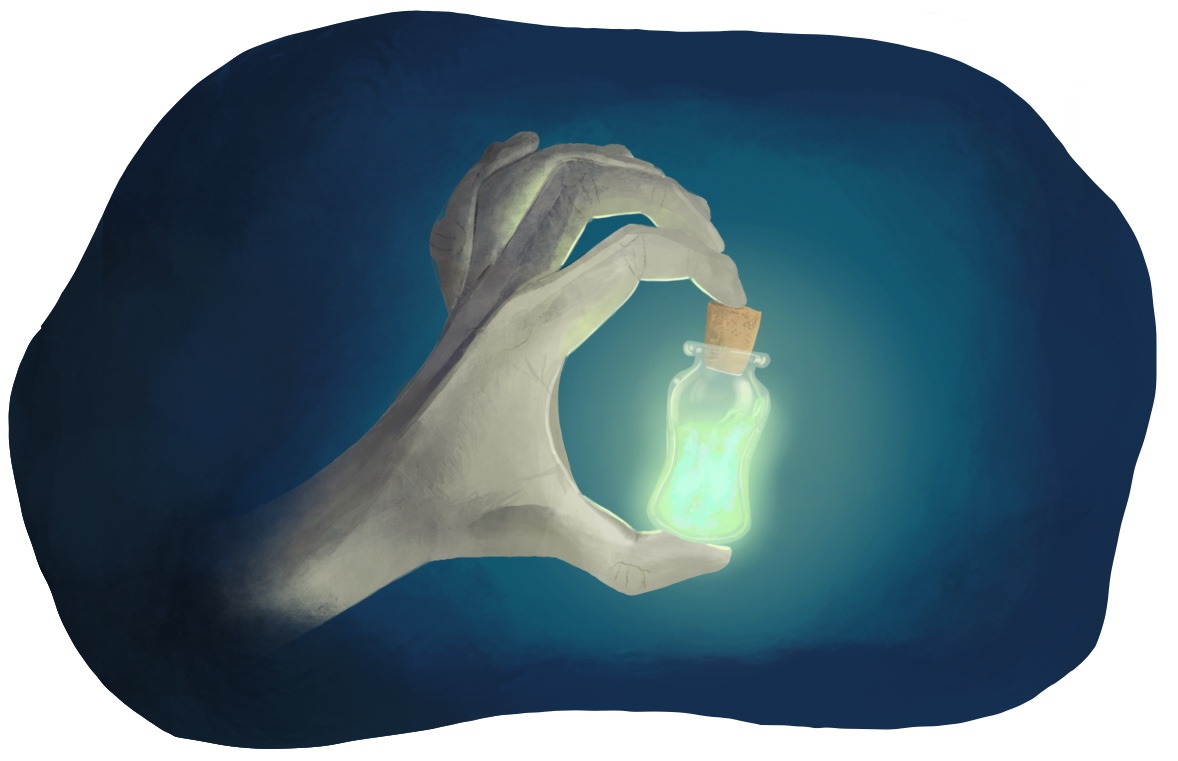
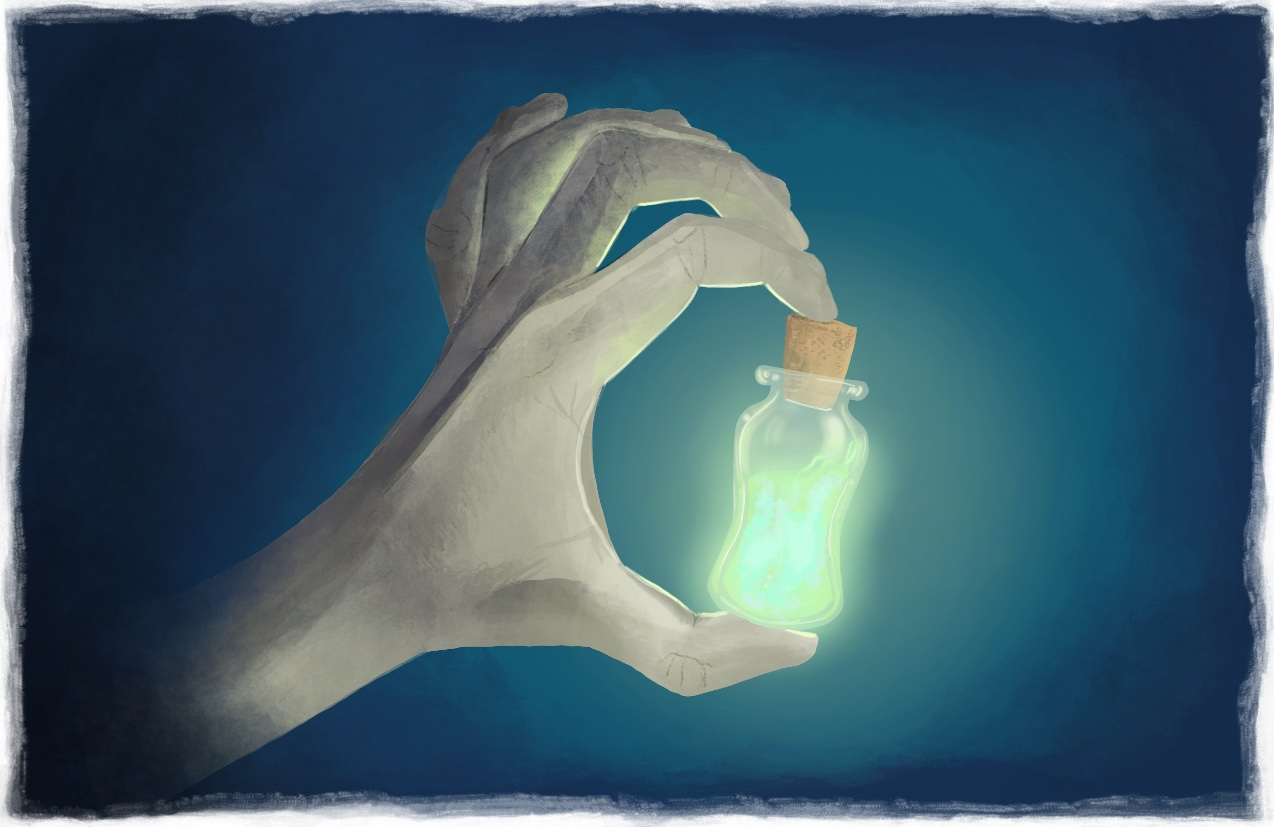
Uses feathered illos in narrative

diff --git a/docs/00_narrative.html b/docs/00_narrative.html
@@ -74,8 +74,8 @@
           <img src="images/00_narrative/cover.jpg">
         </div>
         <div class = "narrative-text"> 
-          <p>Teacup giraffes were first discovered by the Swedish naturalist and priest Olof Torén, an apostle of Carl Linnaeus, during his travels on the Swedish East India Company ship <i>Hoppet</i>. One suffocating evening in July 1748, shortly after Hoppet sailed east of Madagascar, captain Erik Moreen was attacked by a headache so vicious it made him seasick for the first time since the beginning of his nautical career. Desperate to ease the pain he called on the ship surgeon, a crooked man who spent most of his time investigating fungi in the deepest corners of the ship’s bilge where the air tasted like forgotten bread.</p>
-          <p> <img class = "narrative-illo" align = "left" src="images/00_narrative/Vial.jpg"> The surgeon brought a small bottle containing a beverage brewed of equal parts fermented goat milk and a distillate of mushrooms which, when dissolved, produced such a colorful luminance that the use of protective goggles was necessary to prevent achromatopsia. Ignoring the surgeon’s recommendation to limit the dose to a few drops of the brew, the captain emptied the bottle in one gulp and for a few moments lost all senses while the hair on the back of his head spun into permanent curls.</p>
+          <p>Teacup giraffes were first discovered by the Swedish naturalist and priest Olof Torén, an apostle of Carl Linnaeus, during his travels on the Swedish East India Company ship <i>Hoppet</i>. One suffocating evening in July 1748, shortly after <i>Hoppet</i> sailed east of Madagascar, captain Erik Moreen was attacked by a headache so vicious it made him seasick for the first time since the beginning of his nautical career. Desperate to ease the pain he called on the ship surgeon, a crooked man who spent most of his time investigating fungi in the deepest corners of the ship’s bilge where the air tasted like forgotten bread.</p>
+          <p> <img class = "narrative-illo-small" align = "left" src="images/00_narrative/Vial.jpg"> The surgeon brought a small bottle containing a beverage brewed of equal parts fermented goat milk and a distillate of mushrooms which, when dissolved, produced such a colorful luminance that the use of protective goggles was necessary to prevent achromatopsia. Ignoring the surgeon’s recommendation to limit the dose to a few drops of the brew, the captain emptied the bottle in one gulp and for a few moments lost all senses while the hair on the back of his head spun into permanent curls.</p>
         </div>
       </div>
 
@@ -89,13 +89,13 @@
       </div>
       
       <div id = slide6  class="slide-content">
-        <div class = "narrative-text"> 
-          <p>In line with the often undemocratic nature of human experiences, Olof Torén would encounter teacup giraffes twice over the course of a few years, while it would take centuries after they were first discovered before anybody else did. The second time Olof Torén visited the two small islands where teacup giraffes still live today, it was during his second and last intercontinental journey at sea, this time on the Swedish East India Company ship <i>Götha Leijon</i>. <img class = "narrative-illo" align = "left" src="images/00_narrative/Ships.jpg"> In 1750 (check year) he found himself back in the cerulean waters northeast of Madagascar. Again, it was an event characterized by pain that would bring the naturalist and ship priest to the teacup giraffe islands, but pain of the soul rather than the body.</p>
+        <div class ="narrative-text"> 
+          <p>In line with the often undemocratic nature of human experiences, Olof Torén would encounter teacup giraffes twice over the course of a few years, while it would take centuries after they were first discovered before anybody else did. The second time Olof Torén visited the two small islands where teacup giraffes still live today, it was during his second and last intercontinental journey at sea, this time on the Swedish East India Company ship <i>Götha Leijon</i>. <img class="narrative-illo-small" align = "left" src="images/00_narrative/Ships2.jpg"> In 1750 (check year) he found himself back in the cerulean waters northeast of Madagascar. Again, it was an event characterized by pain that would bring the naturalist and ship priest to the teacup giraffe islands, but pain of the soul rather than the body.</p>
            </div>
       </div>
           
       <div id = slide7  class="slide-content">
-        <div class = "narrative-text"> 
+        <div class="narrative-text"> 
           <p>In the evenings, Olof Torén and supercargo Anders Gotheen, a man who would not hesitate to let people know his personal values aligned perfectly with the new ideals of the intellectual revolution today known as the <i>Enlightenment</i>, enjoyed sitting down for a game of backgammon on the main deck. Or rather, Olof Torén enjoyed the game while Anders Gotheen, as he liked to say, enjoyed engaging in dialectic discourse while playing a game only trivially distracting since winning after all was mostly a question of luck. Olof Torén had noticed that conversations with Anders Gotheen often made him worried about things he had not previously contemplated and was therefore less amused by the dialectic aspect of their game nights. </p>
           <p>This particular evening it seemed Anders Gotheen would definitely lose. He watched Olof Torén bear off three of his white checkers and as he collected the dice supercargo Gotheen turned to the naturalist and ship priest.</p>
           <p class="dialogue">– For the intellectually brave and the intellectually honest, he said, no comfort can be found in the concept of infinity. Everything typical of human life, he continued, depends on the idea of a finite world, and therefore a free human mind can never truly be consolidated by the appreciation of endlessness. He paused and drank some wine from a metal cup.</p>
@@ -108,7 +108,7 @@
         <div id = slide8  class="slide-content">
           <div class = "narrative-text"> 
             <p>Olof Torén treaded water all night, motivated by his new found fear of death. When the sun rose he for a moment forgot about the thoughts that had been plaguing him during those long hours in the dark water, because the early morning light was filtered through the foliage of a thousand palm trees, draping the world in a calming emerald luster. He could now see he was only a few yards away from the sandbank where <i>Hoppet</i> had stranded a few years earlier. He swam to the island closest to him and passed out on the beach, exhausted both physically and mentally.</p>
-            <p>When Olof Torén woke up the sun was already setting. As he slowly opened his eyes he saw a group of teacup giraffes walking towards him on the beach, and briefly thought they had come to welcome him back to the islands. But the small caravan walked past him and continued towards a large flat stone projecting out of the sand not far from where he was laying. <img align = "left" class= "narrative-illo" src="images/00_narrative/ShadowPlay.jpg"> In the light of dusk, minutes before the sun would disappear into the sea, everything on the beach seemed to cast extraordinarily long shadows and from where Olof Torén was positioned the stone looked enormous. The shape made him think of runestones, rocks Vikings would raise and decorate with runic inscriptions, but the size more resembled the moai stone statues of Easter island. The teacup giraffes took turns standing in front of the stone observing a large giraffe shaped silhouette appear on the granite surface ahead. They seemed infatuated by watching their shadow twin move as they moved, grasping for palm tree leaves non-shadow teacup giraffes would never reach, and making low pitched vocal sounds reminding Olof Torén of larger animals. It was as if these teacup giraffes knew about their unusually small stature and used the evening light phenomenon to pretend they were tall, like their full-size giraffe relatives on the African mainland.</p>
+            <p>When Olof Torén woke up the sun was already setting. As he slowly opened his eyes he saw a group of teacup giraffes walking towards him on the beach, and briefly thought they had come to welcome him back to the islands. But the small caravan walked past him and continued towards a large flat stone projecting out of the sand not far from where he was laying. <img class= "narrative-illo-big" src="images/00_narrative/ShadowPlay.jpg"> In the light of dusk, minutes before the sun would disappear into the sea, everything on the beach seemed to cast extraordinarily long shadows and from where Olof Torén was positioned the stone looked enormous. The shape made him think of runestones, rocks Vikings would raise and decorate with runic inscriptions, but the size more resembled the moai stone statues of Easter island. The teacup giraffes took turns standing in front of the stone observing a large giraffe shaped silhouette appear on the granite surface ahead. They seemed infatuated by watching their shadow twin move as they moved, grasping for palm tree leaves non-shadow teacup giraffes would never reach, and making low pitched vocal sounds reminding Olof Torén of larger animals. It was as if these teacup giraffes knew about their unusually small stature and used the evening light phenomenon to pretend they were tall, like their full-size giraffe relatives on the African mainland.</p>
           </div>
         </div>
       
@@ -117,14 +117,14 @@
             <p>This time around Olof Torén spent two days in the company of teacup giraffes and grew to appreciate their cheerful demeanor, social competence and general friendliness. When not playing with shadows, chasing fireflies or resting in the crisp air next to a waterfall, they foraged the jungle for celery which seemed to be their favorite food. Time passed quickly on the islands  because the teacup giraffes had an almost endless repertoire of delightful behaviors and at times it even appeared they adapted their conduct to what Olof Torén showed appreciation for. </p>
             <p>On the Swedish East India Company ship <i>Götha Leijon</i>, the consensus was that Olof Torén was unlikely to still be alive, but most of the crew were god fearing men and the idea of leaving a priest to drown without a convincing rescue attempt seemed like the type of thing the almighty would never forget. Some of the them had been present for the Erik Moreen debacle a few years earlier, and remembered the location of the islands from this incident.</p>
             <p>Olof Torén saw the ship approach the islands from far away. After two days on the teacup giraffe diet he was famished because the more celery he ate the hungrier he became. Longing for the salted meats that made up a large part of the meals onboard Swedish East India Company ships, he said goodbye to his new four legged friends and waded out in the water to meet the rowboat launched to pick him up. As he climbed onboard he turned around to catch a last glimpse of the teacup giraffes and saw them gather on the beach for another evening shadow play ritual.</p>
-            <p>Back on Götha Leijon, Olof Torén wrote down all the details of teacup giraffes’ lives he could remember. During a game of backgammon with supercargo Anders Gotheen he made an attempt to describe their complex social behaviors, to which Anders Gotheen replied </p>
+            <p>Back on <i>Götha Leijon</i>, Olof Torén wrote down all the details of teacup giraffes’ lives he could remember. During a game of backgammon with supercargo Anders Gotheen he made an attempt to describe their complex social behaviors, to which Anders Gotheen replied </p>
             <p class="dialogue"> – The human mind works in mysterious ways when deprived of energy.</p>
         </div>
       </div>
       
       <div id = slide10  class="slide-content">
         <div class = "narrative-text"> 
-          <p>Olof Torén would in fact have a hard time convincing friends and colleagues, people he met as Götha Leijon sailed to Surat and Canton, as well as Carl Linnaeus, that his experiences on the teacup giraffes islands were real. Maybe the feeling of not being trusted contributed to why his health started to deteriorate after his return to Sweden in 1752. On the 3rd of May 1753, a few months before his death, he wrote a last letter to Linnaeus. On the final page of this letter he drew a picture of two giraffes, one small and one big. They were standing in front of a wall and both shadows stretched far up into the sky. The small giraffe, a female with pointy ears, looked like she was smiling.</p>
+          <p>Olof Torén would in fact have a hard time convincing friends and colleagues, people he met as <i>Götha Leijon</i> sailed to Surat and Canton, as well as Carl Linnaeus, that his experiences on the teacup giraffes islands were real. Maybe the feeling of not being trusted contributed to why his health started to deteriorate after his return to Sweden in 1752. On the 3rd of May 1753, a few months before his death, he wrote a last letter to Linnaeus. On the final page of this letter he drew a picture of two giraffes, one small and one big. They were standing in front of a wall and both shadows stretched far up into the sky. The small giraffe, a female with pointy ears, looked like she was smiling.</p>
           <p>Even today, when there are few true mysteries left in the world and all corners of the globe have been so carefully measured and illuminated that no colorless spots stain the pages of the modern atlas, teacup giraffes remain a relatively well kept secret. These animals were briefly mentioned in 9th edition of Carl Linnaeus’ Systema Naturae and given the Latin name Giraffa minima, but were removed before printing the 10th edition because of doubts about the trustworthiness of Olof Torén’s accounts. No songs have been sung about them, Rudyard Kipling was oblivious to their existence when writing the Jungle Book, schoolchildren have never wondered how many teacup giraffes they could fit in a backpack, surprisingly no attempts have been made to keep them as pets, and they were never made famous by a Twinings advertisement campaign. </p>
           <p>But in December 2018, the Olof Torén foundation in Uppsala decided it was time that teacup giraffes were given a more prominent place in the world of zoology. The foundation set aside money for a stipend and requested applications from “young aspiring scientists devoted to conducting old-school observational field work and interested in spending ten weeks on remote islands in the Indian Ocean studying maybe the least known mammal on the planet”. In the announcement they also wrote “One crucial piece of information missing about teacup giraffes regards their physique, because although it is known that they are small, no reliable records of their exact size can be found anywhere”. And this is true because people falling overboard rarely bring measuring equipment.</p>
           </div>

diff --git a/assets/00_narrative.html b/assets/00_narrative.html
@@ -48,8 +48,8 @@
           <img src="images/00_narrative/cover.jpg">
         </div>
         <div class = "narrative-text"> 
-          <p>Teacup giraffes were first discovered by the Swedish naturalist and priest Olof Torén, an apostle of Carl Linnaeus, during his travels on the Swedish East India Company ship <i>Hoppet</i>. One suffocating evening in July 1748, shortly after Hoppet sailed east of Madagascar, captain Erik Moreen was attacked by a headache so vicious it made him seasick for the first time since the beginning of his nautical career. Desperate to ease the pain he called on the ship surgeon, a crooked man who spent most of his time investigating fungi in the deepest corners of the ship’s bilge where the air tasted like forgotten bread.</p>
-          <p> <img class = "narrative-illo" align = "left" src="images/00_narrative/Vial.jpg"> The surgeon brought a small bottle containing a beverage brewed of equal parts fermented goat milk and a distillate of mushrooms which, when dissolved, produced such a colorful luminance that the use of protective goggles was necessary to prevent achromatopsia. Ignoring the surgeon’s recommendation to limit the dose to a few drops of the brew, the captain emptied the bottle in one gulp and for a few moments lost all senses while the hair on the back of his head spun into permanent curls.</p>
+          <p>Teacup giraffes were first discovered by the Swedish naturalist and priest Olof Torén, an apostle of Carl Linnaeus, during his travels on the Swedish East India Company ship <i>Hoppet</i>. One suffocating evening in July 1748, shortly after <i>Hoppet</i> sailed east of Madagascar, captain Erik Moreen was attacked by a headache so vicious it made him seasick for the first time since the beginning of his nautical career. Desperate to ease the pain he called on the ship surgeon, a crooked man who spent most of his time investigating fungi in the deepest corners of the ship’s bilge where the air tasted like forgotten bread.</p>
+          <p> <img class = "narrative-illo-small" align = "left" src="images/00_narrative/Vial.jpg"> The surgeon brought a small bottle containing a beverage brewed of equal parts fermented goat milk and a distillate of mushrooms which, when dissolved, produced such a colorful luminance that the use of protective goggles was necessary to prevent achromatopsia. Ignoring the surgeon’s recommendation to limit the dose to a few drops of the brew, the captain emptied the bottle in one gulp and for a few moments lost all senses while the hair on the back of his head spun into permanent curls.</p>
         </div>
       </div>
 
@@ -63,13 +63,13 @@
       </div>
       
       <div id = slide6  class="slide-content">
-        <div class = "narrative-text"> 
-          <p>In line with the often undemocratic nature of human experiences, Olof Torén would encounter teacup giraffes twice over the course of a few years, while it would take centuries after they were first discovered before anybody else did. The second time Olof Torén visited the two small islands where teacup giraffes still live today, it was during his second and last intercontinental journey at sea, this time on the Swedish East India Company ship <i>Götha Leijon</i>. <img class = "narrative-illo" align = "left" src="images/00_narrative/Ships.jpg"> In 1750 (check year) he found himself back in the cerulean waters northeast of Madagascar. Again, it was an event characterized by pain that would bring the naturalist and ship priest to the teacup giraffe islands, but pain of the soul rather than the body.</p>
+        <div class ="narrative-text"> 
+          <p>In line with the often undemocratic nature of human experiences, Olof Torén would encounter teacup giraffes twice over the course of a few years, while it would take centuries after they were first discovered before anybody else did. The second time Olof Torén visited the two small islands where teacup giraffes still live today, it was during his second and last intercontinental journey at sea, this time on the Swedish East India Company ship <i>Götha Leijon</i>. <img class="narrative-illo-small" align = "left" src="images/00_narrative/Ships2.jpg"> In 1750 (check year) he found himself back in the cerulean waters northeast of Madagascar. Again, it was an event characterized by pain that would bring the naturalist and ship priest to the teacup giraffe islands, but pain of the soul rather than the body.</p>
            </div>
       </div>
           
       <div id = slide7  class="slide-content">
-        <div class = "narrative-text"> 
+        <div class="narrative-text"> 
           <p>In the evenings, Olof Torén and supercargo Anders Gotheen, a man who would not hesitate to let people know his personal values aligned perfectly with the new ideals of the intellectual revolution today known as the <i>Enlightenment</i>, enjoyed sitting down for a game of backgammon on the main deck. Or rather, Olof Torén enjoyed the game while Anders Gotheen, as he liked to say, enjoyed engaging in dialectic discourse while playing a game only trivially distracting since winning after all was mostly a question of luck. Olof Torén had noticed that conversations with Anders Gotheen often made him worried about things he had not previously contemplated and was therefore less amused by the dialectic aspect of their game nights. </p>
           <p>This particular evening it seemed Anders Gotheen would definitely lose. He watched Olof Torén bear off three of his white checkers and as he collected the dice supercargo Gotheen turned to the naturalist and ship priest.</p>
           <p class="dialogue">– For the intellectually brave and the intellectually honest, he said, no comfort can be found in the concept of infinity. Everything typical of human life, he continued, depends on the idea of a finite world, and therefore a free human mind can never truly be consolidated by the appreciation of endlessness. He paused and drank some wine from a metal cup.</p>
@@ -82,7 +82,7 @@
         <div id = slide8  class="slide-content">
           <div class = "narrative-text"> 
             <p>Olof Torén treaded water all night, motivated by his new found fear of death. When the sun rose he for a moment forgot about the thoughts that had been plaguing him during those long hours in the dark water, because the early morning light was filtered through the foliage of a thousand palm trees, draping the world in a calming emerald luster. He could now see he was only a few yards away from the sandbank where <i>Hoppet</i> had stranded a few years earlier. He swam to the island closest to him and passed out on the beach, exhausted both physically and mentally.</p>
-            <p>When Olof Torén woke up the sun was already setting. As he slowly opened his eyes he saw a group of teacup giraffes walking towards him on the beach, and briefly thought they had come to welcome him back to the islands. But the small caravan walked past him and continued towards a large flat stone projecting out of the sand not far from where he was laying. <img align = "left" class= "narrative-illo" src="images/00_narrative/ShadowPlay.jpg"> In the light of dusk, minutes before the sun would disappear into the sea, everything on the beach seemed to cast extraordinarily long shadows and from where Olof Torén was positioned the stone looked enormous. The shape made him think of runestones, rocks Vikings would raise and decorate with runic inscriptions, but the size more resembled the moai stone statues of Easter island. The teacup giraffes took turns standing in front of the stone observing a large giraffe shaped silhouette appear on the granite surface ahead. They seemed infatuated by watching their shadow twin move as they moved, grasping for palm tree leaves non-shadow teacup giraffes would never reach, and making low pitched vocal sounds reminding Olof Torén of larger animals. It was as if these teacup giraffes knew about their unusually small stature and used the evening light phenomenon to pretend they were tall, like their full-size giraffe relatives on the African mainland.</p>
+            <p>When Olof Torén woke up the sun was already setting. As he slowly opened his eyes he saw a group of teacup giraffes walking towards him on the beach, and briefly thought they had come to welcome him back to the islands. But the small caravan walked past him and continued towards a large flat stone projecting out of the sand not far from where he was laying. <img class= "narrative-illo-big" src="images/00_narrative/ShadowPlay.jpg"> In the light of dusk, minutes before the sun would disappear into the sea, everything on the beach seemed to cast extraordinarily long shadows and from where Olof Torén was positioned the stone looked enormous. The shape made him think of runestones, rocks Vikings would raise and decorate with runic inscriptions, but the size more resembled the moai stone statues of Easter island. The teacup giraffes took turns standing in front of the stone observing a large giraffe shaped silhouette appear on the granite surface ahead. They seemed infatuated by watching their shadow twin move as they moved, grasping for palm tree leaves non-shadow teacup giraffes would never reach, and making low pitched vocal sounds reminding Olof Torén of larger animals. It was as if these teacup giraffes knew about their unusually small stature and used the evening light phenomenon to pretend they were tall, like their full-size giraffe relatives on the African mainland.</p>
           </div>
         </div>
       
@@ -91,14 +91,14 @@
             <p>This time around Olof Torén spent two days in the company of teacup giraffes and grew to appreciate their cheerful demeanor, social competence and general friendliness. When not playing with shadows, chasing fireflies or resting in the crisp air next to a waterfall, they foraged the jungle for celery which seemed to be their favorite food. Time passed quickly on the islands  because the teacup giraffes had an almost endless repertoire of delightful behaviors and at times it even appeared they adapted their conduct to what Olof Torén showed appreciation for. </p>
             <p>On the Swedish East India Company ship <i>Götha Leijon</i>, the consensus was that Olof Torén was unlikely to still be alive, but most of the crew were god fearing men and the idea of leaving a priest to drown without a convincing rescue attempt seemed like the type of thing the almighty would never forget. Some of the them had been present for the Erik Moreen debacle a few years earlier, and remembered the location of the islands from this incident.</p>
             <p>Olof Torén saw the ship approach the islands from far away. After two days on the teacup giraffe diet he was famished because the more celery he ate the hungrier he became. Longing for the salted meats that made up a large part of the meals onboard Swedish East India Company ships, he said goodbye to his new four legged friends and waded out in the water to meet the rowboat launched to pick him up. As he climbed onboard he turned around to catch a last glimpse of the teacup giraffes and saw them gather on the beach for another evening shadow play ritual.</p>
-            <p>Back on Götha Leijon, Olof Torén wrote down all the details of teacup giraffes’ lives he could remember. During a game of backgammon with supercargo Anders Gotheen he made an attempt to describe their complex social behaviors, to which Anders Gotheen replied </p>
+            <p>Back on <i>Götha Leijon</i>, Olof Torén wrote down all the details of teacup giraffes’ lives he could remember. During a game of backgammon with supercargo Anders Gotheen he made an attempt to describe their complex social behaviors, to which Anders Gotheen replied </p>
             <p class="dialogue"> – The human mind works in mysterious ways when deprived of energy.</p>
         </div>
       </div>
       
       <div id = slide10  class="slide-content">
         <div class = "narrative-text"> 
-          <p>Olof Torén would in fact have a hard time convincing friends and colleagues, people he met as Götha Leijon sailed to Surat and Canton, as well as Carl Linnaeus, that his experiences on the teacup giraffes islands were real. Maybe the feeling of not being trusted contributed to why his health started to deteriorate after his return to Sweden in 1752. On the 3rd of May 1753, a few months before his death, he wrote a last letter to Linnaeus. On the final page of this letter he drew a picture of two giraffes, one small and one big. They were standing in front of a wall and both shadows stretched far up into the sky. The small giraffe, a female with pointy ears, looked like she was smiling.</p>
+          <p>Olof Torén would in fact have a hard time convincing friends and colleagues, people he met as <i>Götha Leijon</i> sailed to Surat and Canton, as well as Carl Linnaeus, that his experiences on the teacup giraffes islands were real. Maybe the feeling of not being trusted contributed to why his health started to deteriorate after his return to Sweden in 1752. On the 3rd of May 1753, a few months before his death, he wrote a last letter to Linnaeus. On the final page of this letter he drew a picture of two giraffes, one small and one big. They were standing in front of a wall and both shadows stretched far up into the sky. The small giraffe, a female with pointy ears, looked like she was smiling.</p>
           <p>Even today, when there are few true mysteries left in the world and all corners of the globe have been so carefully measured and illuminated that no colorless spots stain the pages of the modern atlas, teacup giraffes remain a relatively well kept secret. These animals were briefly mentioned in 9th edition of Carl Linnaeus’ Systema Naturae and given the Latin name Giraffa minima, but were removed before printing the 10th edition because of doubts about the trustworthiness of Olof Torén’s accounts. No songs have been sung about them, Rudyard Kipling was oblivious to their existence when writing the Jungle Book, schoolchildren have never wondered how many teacup giraffes they could fit in a backpack, surprisingly no attempts have been made to keep them as pets, and they were never made famous by a Twinings advertisement campaign. </p>
           <p>But in December 2018, the Olof Torén foundation in Uppsala decided it was time that teacup giraffes were given a more prominent place in the world of zoology. The foundation set aside money for a stipend and requested applications from “young aspiring scientists devoted to conducting old-school observational field work and interested in spending ten weeks on remote islands in the Indian Ocean studying maybe the least known mammal on the planet”. In the announcement they also wrote “One crucial piece of information missing about teacup giraffes regards their physique, because although it is known that they are small, no reliable records of their exact size can be found anywhere”. And this is true because people falling overboard rarely bring measuring equipment.</p>
           </div>

diff --git a/docs/assets/00_narrative.html b/docs/assets/00_narrative.html
@@ -48,8 +48,8 @@
           <img src="images/00_narrative/cover.jpg">
         </div>
         <div class = "narrative-text"> 
-          <p>Teacup giraffes were first discovered by the Swedish naturalist and priest Olof Torén, an apostle of Carl Linnaeus, during his travels on the Swedish East India Company ship <i>Hoppet</i>. One suffocating evening in July 1748, shortly after Hoppet sailed east of Madagascar, captain Erik Moreen was attacked by a headache so vicious it made him seasick for the first time since the beginning of his nautical career. Desperate to ease the pain he called on the ship surgeon, a crooked man who spent most of his time investigating fungi in the deepest corners of the ship’s bilge where the air tasted like forgotten bread.</p>
-          <p> <img class = "narrative-illo" align = "left" src="images/00_narrative/Vial.jpg"> The surgeon brought a small bottle containing a beverage brewed of equal parts fermented goat milk and a distillate of mushrooms which, when dissolved, produced such a colorful luminance that the use of protective goggles was necessary to prevent achromatopsia. Ignoring the surgeon’s recommendation to limit the dose to a few drops of the brew, the captain emptied the bottle in one gulp and for a few moments lost all senses while the hair on the back of his head spun into permanent curls.</p>
+          <p>Teacup giraffes were first discovered by the Swedish naturalist and priest Olof Torén, an apostle of Carl Linnaeus, during his travels on the Swedish East India Company ship <i>Hoppet</i>. One suffocating evening in July 1748, shortly after <i>Hoppet</i> sailed east of Madagascar, captain Erik Moreen was attacked by a headache so vicious it made him seasick for the first time since the beginning of his nautical career. Desperate to ease the pain he called on the ship surgeon, a crooked man who spent most of his time investigating fungi in the deepest corners of the ship’s bilge where the air tasted like forgotten bread.</p>
+          <p> <img class = "narrative-illo-small" align = "left" src="images/00_narrative/Vial.jpg"> The surgeon brought a small bottle containing a beverage brewed of equal parts fermented goat milk and a distillate of mushrooms which, when dissolved, produced such a colorful luminance that the use of protective goggles was necessary to prevent achromatopsia. Ignoring the surgeon’s recommendation to limit the dose to a few drops of the brew, the captain emptied the bottle in one gulp and for a few moments lost all senses while the hair on the back of his head spun into permanent curls.</p>
         </div>
       </div>
 
@@ -63,13 +63,13 @@
       </div>
       
       <div id = slide6  class="slide-content">
-        <div class = "narrative-text"> 
-          <p>In line with the often undemocratic nature of human experiences, Olof Torén would encounter teacup giraffes twice over the course of a few years, while it would take centuries after they were first discovered before anybody else did. The second time Olof Torén visited the two small islands where teacup giraffes still live today, it was during his second and last intercontinental journey at sea, this time on the Swedish East India Company ship <i>Götha Leijon</i>. <img class = "narrative-illo" align = "left" src="images/00_narrative/Ships.jpg"> In 1750 (check year) he found himself back in the cerulean waters northeast of Madagascar. Again, it was an event characterized by pain that would bring the naturalist and ship priest to the teacup giraffe islands, but pain of the soul rather than the body.</p>
+        <div class ="narrative-text"> 
+          <p>In line with the often undemocratic nature of human experiences, Olof Torén would encounter teacup giraffes twice over the course of a few years, while it would take centuries after they were first discovered before anybody else did. The second time Olof Torén visited the two small islands where teacup giraffes still live today, it was during his second and last intercontinental journey at sea, this time on the Swedish East India Company ship <i>Götha Leijon</i>. <img class="narrative-illo-small" align = "left" src="images/00_narrative/Ships2.jpg"> In 1750 (check year) he found himself back in the cerulean waters northeast of Madagascar. Again, it was an event characterized by pain that would bring the naturalist and ship priest to the teacup giraffe islands, but pain of the soul rather than the body.</p>
            </div>
       </div>
           
       <div id = slide7  class="slide-content">
-        <div class = "narrative-text"> 
+        <div class="narrative-text"> 
           <p>In the evenings, Olof Torén and supercargo Anders Gotheen, a man who would not hesitate to let people know his personal values aligned perfectly with the new ideals of the intellectual revolution today known as the <i>Enlightenment</i>, enjoyed sitting down for a game of backgammon on the main deck. Or rather, Olof Torén enjoyed the game while Anders Gotheen, as he liked to say, enjoyed engaging in dialectic discourse while playing a game only trivially distracting since winning after all was mostly a question of luck. Olof Torén had noticed that conversations with Anders Gotheen often made him worried about things he had not previously contemplated and was therefore less amused by the dialectic aspect of their game nights. </p>
           <p>This particular evening it seemed Anders Gotheen would definitely lose. He watched Olof Torén bear off three of his white checkers and as he collected the dice supercargo Gotheen turned to the naturalist and ship priest.</p>
           <p class="dialogue">– For the intellectually brave and the intellectually honest, he said, no comfort can be found in the concept of infinity. Everything typical of human life, he continued, depends on the idea of a finite world, and therefore a free human mind can never truly be consolidated by the appreciation of endlessness. He paused and drank some wine from a metal cup.</p>
@@ -82,7 +82,7 @@
         <div id = slide8  class="slide-content">
           <div class = "narrative-text"> 
             <p>Olof Torén treaded water all night, motivated by his new found fear of death. When the sun rose he for a moment forgot about the thoughts that had been plaguing him during those long hours in the dark water, because the early morning light was filtered through the foliage of a thousand palm trees, draping the world in a calming emerald luster. He could now see he was only a few yards away from the sandbank where <i>Hoppet</i> had stranded a few years earlier. He swam to the island closest to him and passed out on the beach, exhausted both physically and mentally.</p>
-            <p>When Olof Torén woke up the sun was already setting. As he slowly opened his eyes he saw a group of teacup giraffes walking towards him on the beach, and briefly thought they had come to welcome him back to the islands. But the small caravan walked past him and continued towards a large flat stone projecting out of the sand not far from where he was laying. <img align = "left" class= "narrative-illo" src="images/00_narrative/ShadowPlay.jpg"> In the light of dusk, minutes before the sun would disappear into the sea, everything on the beach seemed to cast extraordinarily long shadows and from where Olof Torén was positioned the stone looked enormous. The shape made him think of runestones, rocks Vikings would raise and decorate with runic inscriptions, but the size more resembled the moai stone statues of Easter island. The teacup giraffes took turns standing in front of the stone observing a large giraffe shaped silhouette appear on the granite surface ahead. They seemed infatuated by watching their shadow twin move as they moved, grasping for palm tree leaves non-shadow teacup giraffes would never reach, and making low pitched vocal sounds reminding Olof Torén of larger animals. It was as if these teacup giraffes knew about their unusually small stature and used the evening light phenomenon to pretend they were tall, like their full-size giraffe relatives on the African mainland.</p>
+            <p>When Olof Torén woke up the sun was already setting. As he slowly opened his eyes he saw a group of teacup giraffes walking towards him on the beach, and briefly thought they had come to welcome him back to the islands. But the small caravan walked past him and continued towards a large flat stone projecting out of the sand not far from where he was laying. <img class= "narrative-illo-big" src="images/00_narrative/ShadowPlay.jpg"> In the light of dusk, minutes before the sun would disappear into the sea, everything on the beach seemed to cast extraordinarily long shadows and from where Olof Torén was positioned the stone looked enormous. The shape made him think of runestones, rocks Vikings would raise and decorate with runic inscriptions, but the size more resembled the moai stone statues of Easter island. The teacup giraffes took turns standing in front of the stone observing a large giraffe shaped silhouette appear on the granite surface ahead. They seemed infatuated by watching their shadow twin move as they moved, grasping for palm tree leaves non-shadow teacup giraffes would never reach, and making low pitched vocal sounds reminding Olof Torén of larger animals. It was as if these teacup giraffes knew about their unusually small stature and used the evening light phenomenon to pretend they were tall, like their full-size giraffe relatives on the African mainland.</p>
           </div>
         </div>
       
@@ -91,14 +91,14 @@
             <p>This time around Olof Torén spent two days in the company of teacup giraffes and grew to appreciate their cheerful demeanor, social competence and general friendliness. When not playing with shadows, chasing fireflies or resting in the crisp air next to a waterfall, they foraged the jungle for celery which seemed to be their favorite food. Time passed quickly on the islands  because the teacup giraffes had an almost endless repertoire of delightful behaviors and at times it even appeared they adapted their conduct to what Olof Torén showed appreciation for. </p>
             <p>On the Swedish East India Company ship <i>Götha Leijon</i>, the consensus was that Olof Torén was unlikely to still be alive, but most of the crew were god fearing men and the idea of leaving a priest to drown without a convincing rescue attempt seemed like the type of thing the almighty would never forget. Some of the them had been present for the Erik Moreen debacle a few years earlier, and remembered the location of the islands from this incident.</p>
             <p>Olof Torén saw the ship approach the islands from far away. After two days on the teacup giraffe diet he was famished because the more celery he ate the hungrier he became. Longing for the salted meats that made up a large part of the meals onboard Swedish East India Company ships, he said goodbye to his new four legged friends and waded out in the water to meet the rowboat launched to pick him up. As he climbed onboard he turned around to catch a last glimpse of the teacup giraffes and saw them gather on the beach for another evening shadow play ritual.</p>
-            <p>Back on Götha Leijon, Olof Torén wrote down all the details of teacup giraffes’ lives he could remember. During a game of backgammon with supercargo Anders Gotheen he made an attempt to describe their complex social behaviors, to which Anders Gotheen replied </p>
+            <p>Back on <i>Götha Leijon</i>, Olof Torén wrote down all the details of teacup giraffes’ lives he could remember. During a game of backgammon with supercargo Anders Gotheen he made an attempt to describe their complex social behaviors, to which Anders Gotheen replied </p>
             <p class="dialogue"> – The human mind works in mysterious ways when deprived of energy.</p>
         </div>
       </div>
       
       <div id = slide10  class="slide-content">
         <div class = "narrative-text"> 
-          <p>Olof Torén would in fact have a hard time convincing friends and colleagues, people he met as Götha Leijon sailed to Surat and Canton, as well as Carl Linnaeus, that his experiences on the teacup giraffes islands were real. Maybe the feeling of not being trusted contributed to why his health started to deteriorate after his return to Sweden in 1752. On the 3rd of May 1753, a few months before his death, he wrote a last letter to Linnaeus. On the final page of this letter he drew a picture of two giraffes, one small and one big. They were standing in front of a wall and both shadows stretched far up into the sky. The small giraffe, a female with pointy ears, looked like she was smiling.</p>
+          <p>Olof Torén would in fact have a hard time convincing friends and colleagues, people he met as <i>Götha Leijon</i> sailed to Surat and Canton, as well as Carl Linnaeus, that his experiences on the teacup giraffes islands were real. Maybe the feeling of not being trusted contributed to why his health started to deteriorate after his return to Sweden in 1752. On the 3rd of May 1753, a few months before his death, he wrote a last letter to Linnaeus. On the final page of this letter he drew a picture of two giraffes, one small and one big. They were standing in front of a wall and both shadows stretched far up into the sky. The small giraffe, a female with pointy ears, looked like she was smiling.</p>
           <p>Even today, when there are few true mysteries left in the world and all corners of the globe have been so carefully measured and illuminated that no colorless spots stain the pages of the modern atlas, teacup giraffes remain a relatively well kept secret. These animals were briefly mentioned in 9th edition of Carl Linnaeus’ Systema Naturae and given the Latin name Giraffa minima, but were removed before printing the 10th edition because of doubts about the trustworthiness of Olof Torén’s accounts. No songs have been sung about them, Rudyard Kipling was oblivious to their existence when writing the Jungle Book, schoolchildren have never wondered how many teacup giraffes they could fit in a backpack, surprisingly no attempts have been made to keep them as pets, and they were never made famous by a Twinings advertisement campaign. </p>
           <p>But in December 2018, the Olof Torén foundation in Uppsala decided it was time that teacup giraffes were given a more prominent place in the world of zoology. The foundation set aside money for a stipend and requested applications from “young aspiring scientists devoted to conducting old-school observational field work and interested in spending ten weeks on remote islands in the Indian Ocean studying maybe the least known mammal on the planet”. In the announcement they also wrote “One crucial piece of information missing about teacup giraffes regards their physique, because although it is known that they are small, no reliable records of their exact size can be found anywhere”. And this is true because people falling overboard rarely bring measuring equipment.</p>
           </div>

diff --git a/assets/landing.css b/assets/landing.css
@@ -14,9 +14,15 @@
   max-width: 650px;
 }
 
-.narrative-illo {
-  max-width: 300px !important;
+.narrative-illo-small {
+  max-width: 350px !important;
   display: inline-block !important;
+  margin: 0.5em 1em 0em 0.5em;
+}
+
+.narrative-illo-big {
+  display: block !important;
+  max-width: 90% !important;
   margin: 0.5em 1em 0em 0.5em;
 }
 

diff --git a/docs/assets/landing.css b/docs/assets/landing.css
@@ -14,9 +14,15 @@
   max-width: 650px;
 }
 
-.narrative-illo {
-  max-width: 300px !important;
+.narrative-illo-small {
+  max-width: 350px !important;
   display: inline-block !important;
+  margin: 0.5em 1em 0em 0.5em;
+}
+
+.narrative-illo-big {
+  display: block !important;
+  max-width: 90% !important;
   margin: 0.5em 1em 0em 0.5em;
 }
 
